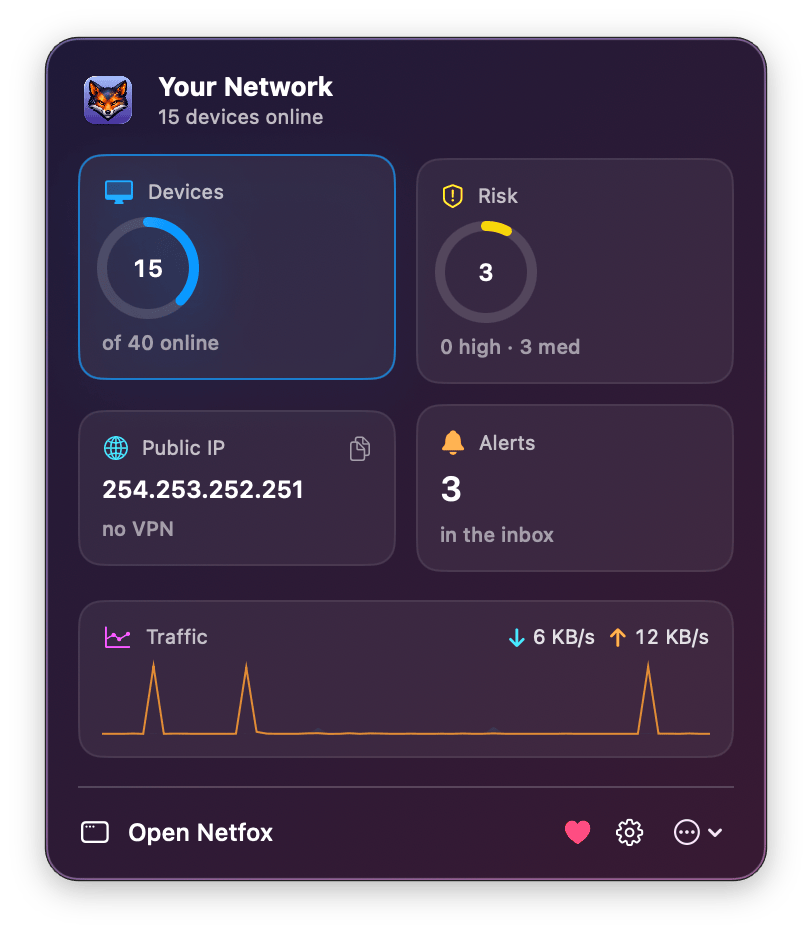
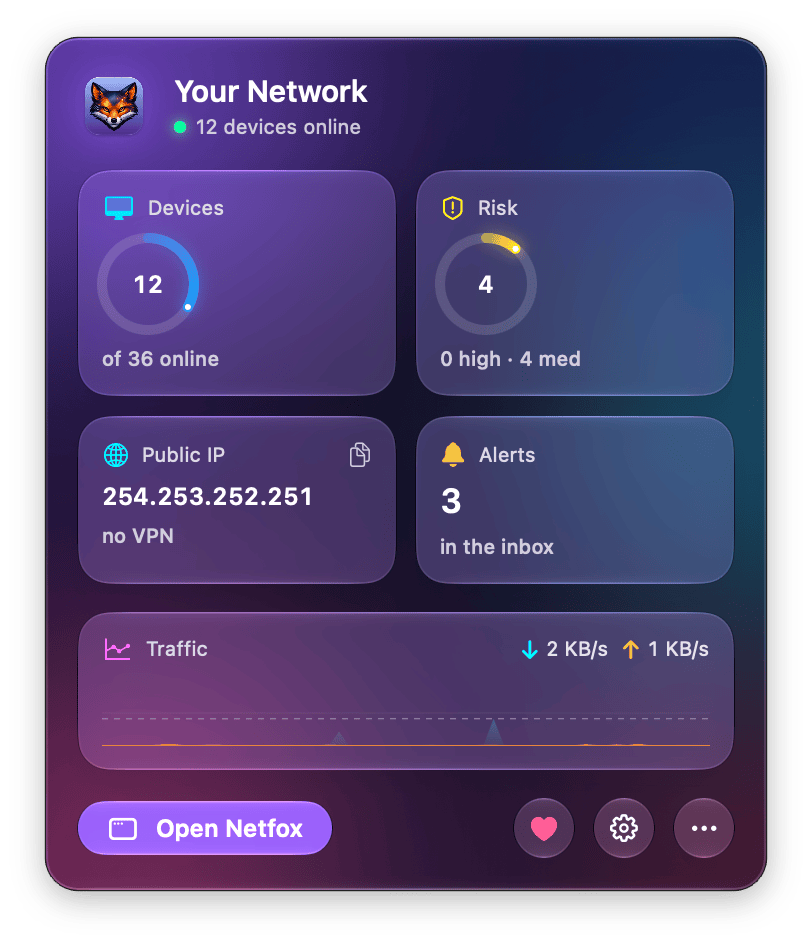
feat(sparkle): publish Netfox v0.25.0 to appcast

diff --git a/public/release-notes/0.25.0.html b/public/release-notes/0.25.0.html
@@ -1,0 +1,101 @@
+<!DOCTYPE html>
+<html lang="en">
+<head>
+<meta charset="utf-8">
+<meta name="viewport" content="width=device-width, initial-scale=1">
+<title>Netfox 0.25.0 — Release Notes</title>
+<style>
+  :root {
+    color-scheme: light dark;
+    --bg: #ffffff;
+    --fg: #1a1a1a;
+    --accent: #f76707;
+    --muted: #6b6b73;
+    --code-bg: #f4f4f5;
+    --border: rgba(0,0,0,0.12);
+  }
+  @media (prefers-color-scheme: dark) {
+    :root {
+      --bg: #1c1c1e;
+      --fg: #ececec;
+      --muted: #9c9ca5;
+      --code-bg: #2c2c2e;
+      --border: rgba(255,255,255,0.14);
+    }
+  }
+  * { box-sizing: border-box; }
+  body {
+    font: 14px/1.55 -apple-system, BlinkMacSystemFont, "SF Pro Text", "Helvetica Neue", sans-serif;
+    color: var(--fg);
+    background: var(--bg);
+    margin: 0 auto;
+    padding: 20px 24px 40px;
+    max-width: 720px;
+  }
+  header.page-header {
+    border-bottom: 1px solid var(--border);
+    padding-bottom: 14px;
+    margin-bottom: 22px;
+  }
+  header.page-header h1 { font-size: 1.7em; margin: 0 0 4px; letter-spacing: -0.02em; }
+  header.page-header .subtitle { color: var(--muted); margin: 0; font-size: 0.92em; }
+  h1, h2, h3, h4 { letter-spacing: -0.01em; margin: 1.5em 0 0.5em; }
+  h1 { font-size: 1.4em; }
+  h2 { font-size: 1.2em; }
+  h3 { font-size: 1em; }
+  a { color: var(--accent); }
+  hr { border: 0; border-top: 1px solid var(--border); margin: 22px 0; }
+  ul, ol { padding-left: 1.4em; }
+  li { margin: 4px 0; }
+  code {
+    font: 0.9em ui-monospace, "SF Mono", Menlo, Consolas, monospace;
+    background: var(--code-bg);
+    padding: 1px 5px;
+    border-radius: 3px;
+  }
+  pre {
+    background: var(--code-bg);
+    padding: 12px 14px;
+    border-radius: 6px;
+    overflow-x: auto;
+    font-size: 0.88em;
+  }
+  pre code { background: transparent; padding: 0; font-size: 1em; }
+  blockquote {
+    margin: 12px 0;
+    padding-left: 12px;
+    border-left: 3px solid var(--border);
+    color: var(--muted);
+  }
+  table { border-collapse: collapse; width: 100%; margin: 12px 0; font-size: 0.95em; }
+  th, td { border: 1px solid var(--border); padding: 6px 10px; text-align: left; }
+  th { background: var(--code-bg); }
+  img { max-width: 100%; }
+</style>
+</head>
+<body>
+<header class="page-header">
+  <h1>Netfox 0.25.0</h1>
+  <p class="subtitle">Release notes</p>
+</header>
+<p>Netfox 0.25.0 is about feel: pull a tool down to refresh it, and watch the Overview and the menu bar panel fill in.</p>
+<h2>Pull to refresh (macOS 27)</h2>
+<ul>
+<li>Pull a view down to refresh it, as in Mail. The Overview reads again what Netfox reads at launch: the devices, the public IP and the VPN. Wi-Fi scans for networks right away, Devices refreshes the list, and Security runs the same scan as its blue button.</li>
+<li>The spinner stays for a moment and then lets go, and the refresh carries on in the background. A scan that is already running is never started twice. The sidebar doesn't refresh: it is for choosing a tool.</li>
+</ul>
+<h2>Glass (macOS 26 and later)</h2>
+<ul>
+<li>The Overview's cards are glass, each in the colour of the tool it opens. They keep that colour, and stay just as readable, when Netfox is behind another app.</li>
+<li>The menu bar panel has glass cards over a softly lit backdrop, a violet Open Netfox button and round glass buttons.</li>
+</ul>
+<h2>Motion</h2>
+<ul>
+<li>The rings fill and the figures roll into place, the public IP included, when the Overview or the panel appears, and again on every refresh. With Reduce Motion on, nothing moves.</li>
+</ul>
+<h2>Fixes</h2>
+<ul>
+<li>In the menu bar panel, the Public IP card sat a few points lower than the Alerts card beside it. The two now line up.</li>
+</ul>
+</body>
+</html>

diff --git a/config/index.ts b/config/index.ts
@@ -87,13 +87,13 @@ export default {
     defaultLanguage: 'en',
   },
   app: {
-    version: '0.24.1',
+    version: '0.25.0',
     // Publication date of `version`, UTC, written by release.sh next to the
     // version itself. It is the OFFLINE FALLBACK for the homepage release
     // strip: the live date and the release count come from the GitHub
     // releases API, and this is what the strip shows when that call is
     // rate-limited or down. Also the JSON-LD `dateModified`.
-    releaseDate: '2026-09-23',
+    releaseDate: '2026-09-27',
     // 15.6, not 15.0: it is the pbxproj MACOSX_DEPLOYMENT_TARGET and the
     // appcast's sparkle:minimumSystemVersion. Only StructuredData reads this,
     // so a wrong value here is invisible on the page and still published to
